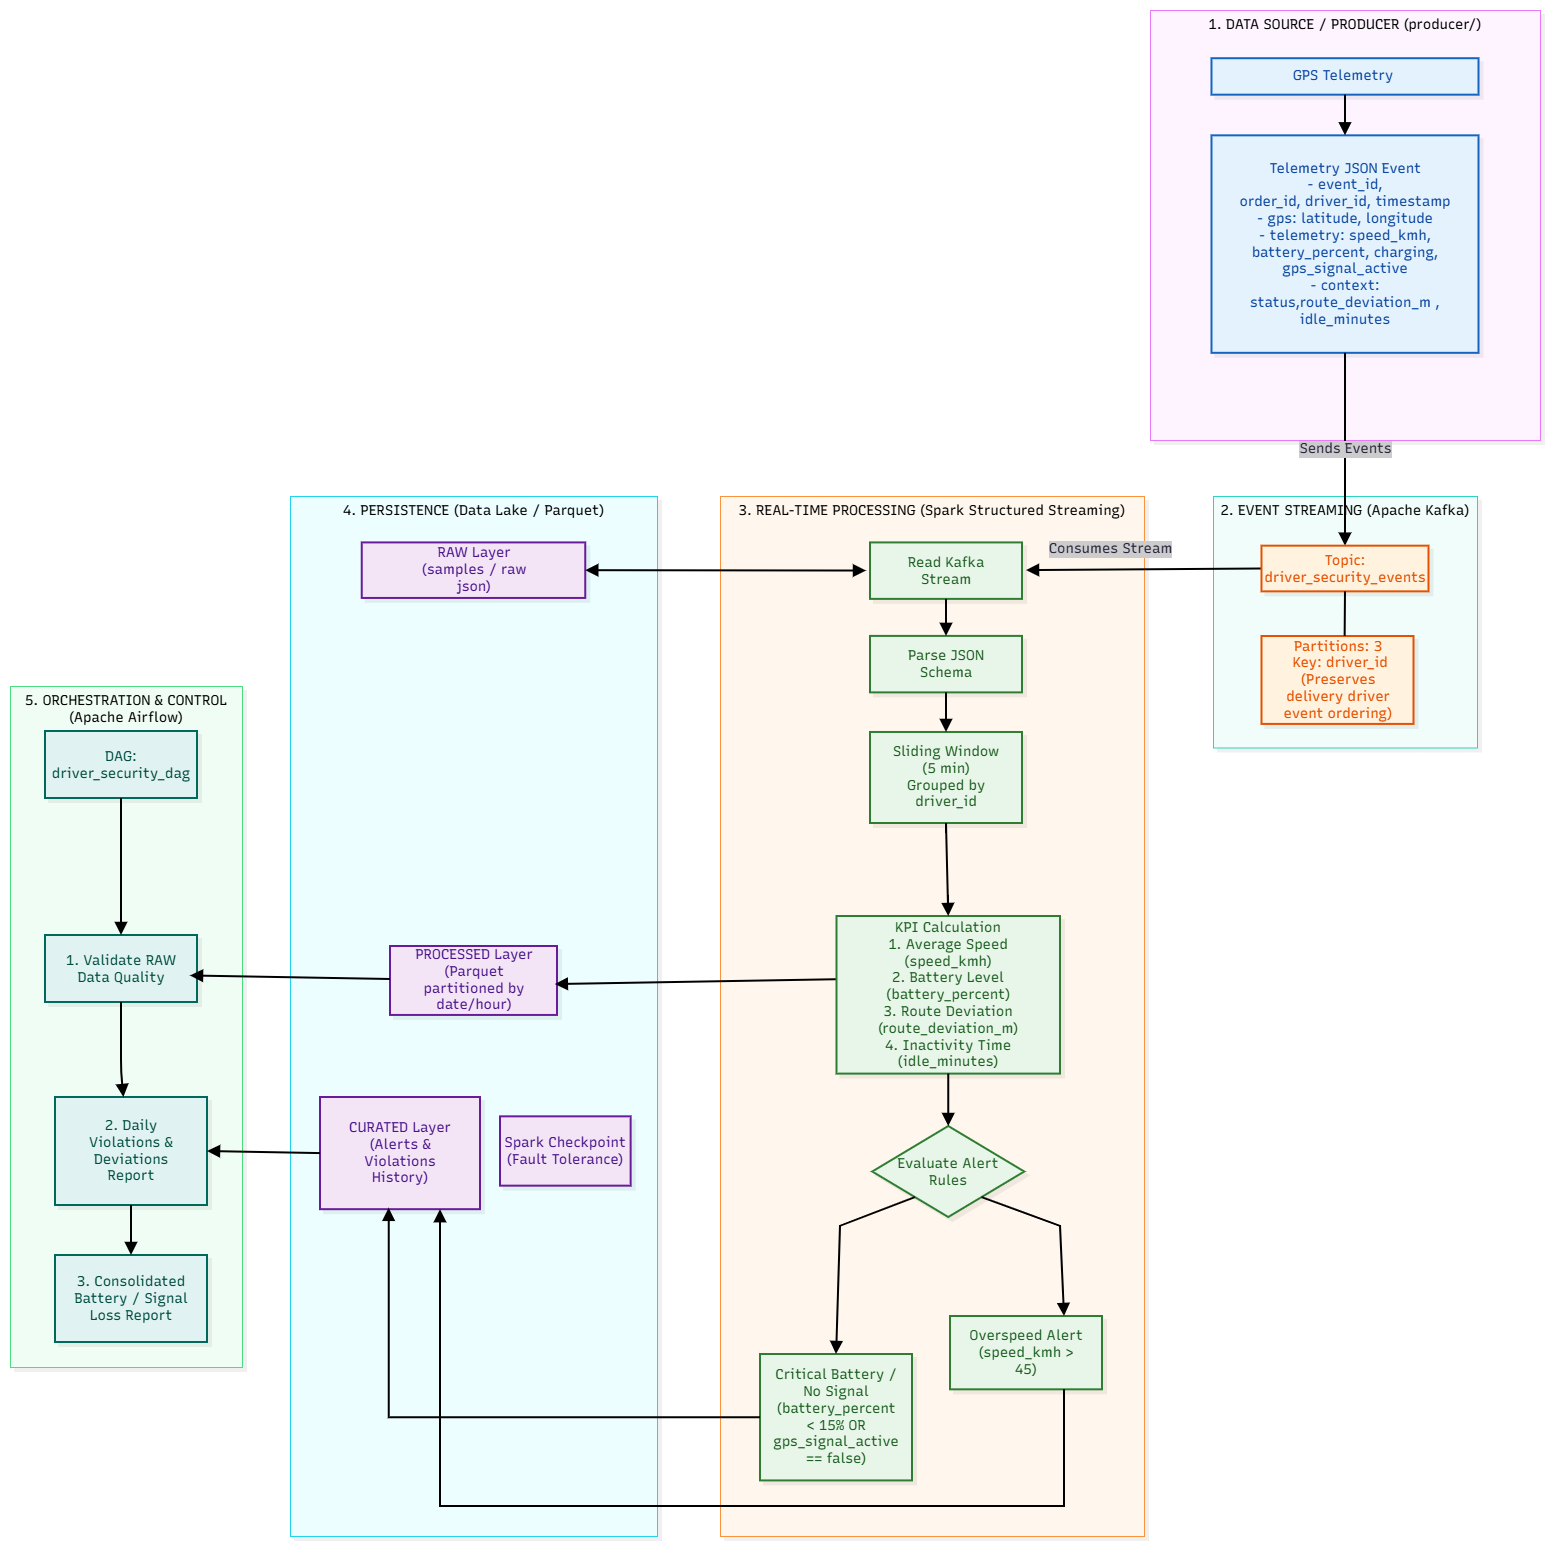
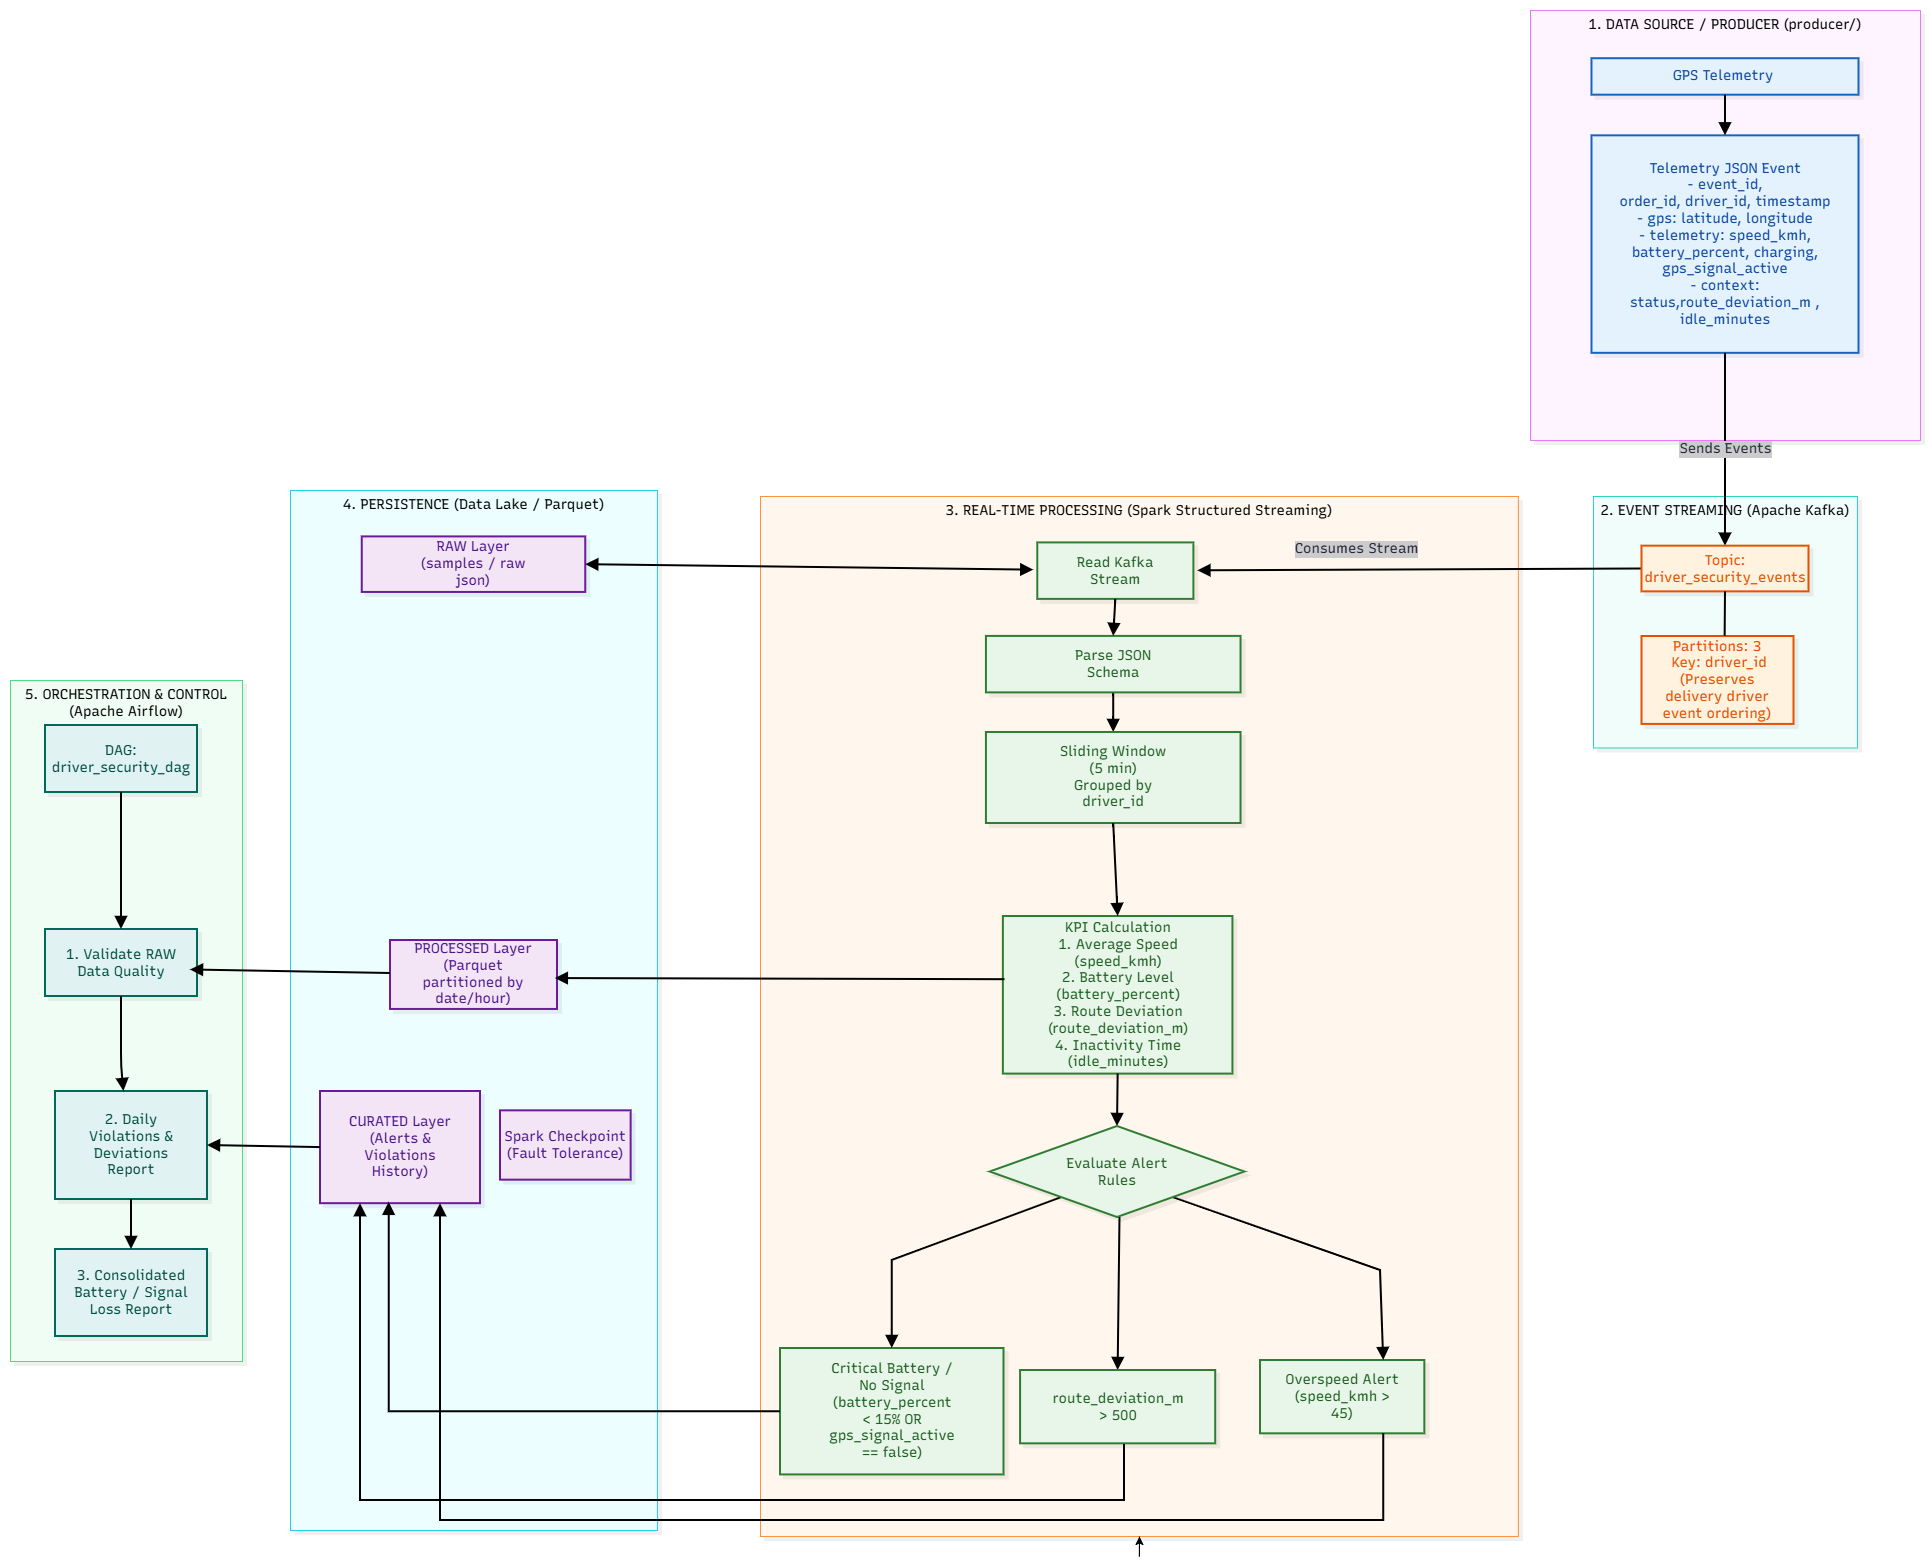
Crear ADR-001: decisión sobre key/particiones

diff --git a/docs/decisions/ADR-001-partitioning-kafka.md b/docs/decisions/ADR-001-partitioning-kafka.md
@@ -1,0 +1,29 @@
+# ADR-001: Decisión sobre Key/Particiones en Kafka y Arquitectura del Pipeline (Variante 2 - Seguridad del Repartidor)
+
+- **Estado:** Aprobado
+- **Fecha:** 21 de octubre de 2026
+- **Autores:** Equipo 5 (Vivian Karith, Nicolas Gonzalez, Laura Ortiz)
+- **Componente:** Arquitectura de Datos / Event Streaming y Procesamiento
+
+
+
+## 1. Decisión Arquitectónica Tomada
+Se define el uso del campo **`driver_id` como clave de particionamiento (*Partition Key*) obligatoria**, y se aprovisiona el topic `driver_security_events` con una configuración de **3 particiones** como núcleo de la capa de *Event Streaming*.
+
+
+## 2. Justificación Técnica en la Arquitectura del Pipeline
+
+1. **Integración con la Capa de Procesamiento (Preservación del Orden):**
+   Apache Kafka garantiza el orden cronológico de los mensajes únicamente a nivel de partición. Al utilizar `driver_id` como *Key*, el algoritmo de hashing redirige de forma determinista el 100% de la telemetría de un conductor a la misma partición. Esto entrega un flujo de datos perfectamente ordenado a Spark.
+
+2. **Eficiencia en el Motor de Streaming (Eliminación de *Shuffling*):**
+   Dentro del pipeline, la fase de *Real-Time Processing* aplica agrupaciones por ventana deslizante de 5 minutos sobre el `driver_id`. Dado que los datos ya vienen particionados por esta clave desde Kafka, Spark ejecuta los cálculos (velocidad promedio, desviación de ruta, inactividad) directamente en la memoria local de cada partición, eliminando la necesidad de intercambiar datos por red entre los nodos (*shuffling*).
+
+3. **Evaluación Determinista de Reglas hacia el Data Lake:**
+   Al garantizar el orden lógico de los eventos, el motor de reglas de Spark puede evaluar de manera determinista las siguientes alertas, derivando los registros hacia la capa *CURATED* del Data Lake (Alertas e historial de violaciones):
+   * **Exceso de Velocidad:** `speed_kmh > 45`.
+   * **Batería Crítica / Pérdida de Señal:** `battery_percent < 15%` **O** `gps_signal_active == false`.
+   * **Repartidor Desviado:** `route_deviation_m > 500`. Este umbral permite un rango de flexibilidad operativa para que el repartidor tome atajos viales sin detonar falsos positivos.
+
+4. **Balanceo de Carga y Paralelismo (3 Particiones):**
+   La elección de 3 particiones asegura un paralelismo óptimo entre la capa de ingestión y el consumidor (Spark), distribuyendo la carga de los diferentes `driver_id` equitativamente sin saturar la memoria RAM en la infraestructura local orquestada por Docker Compose.
